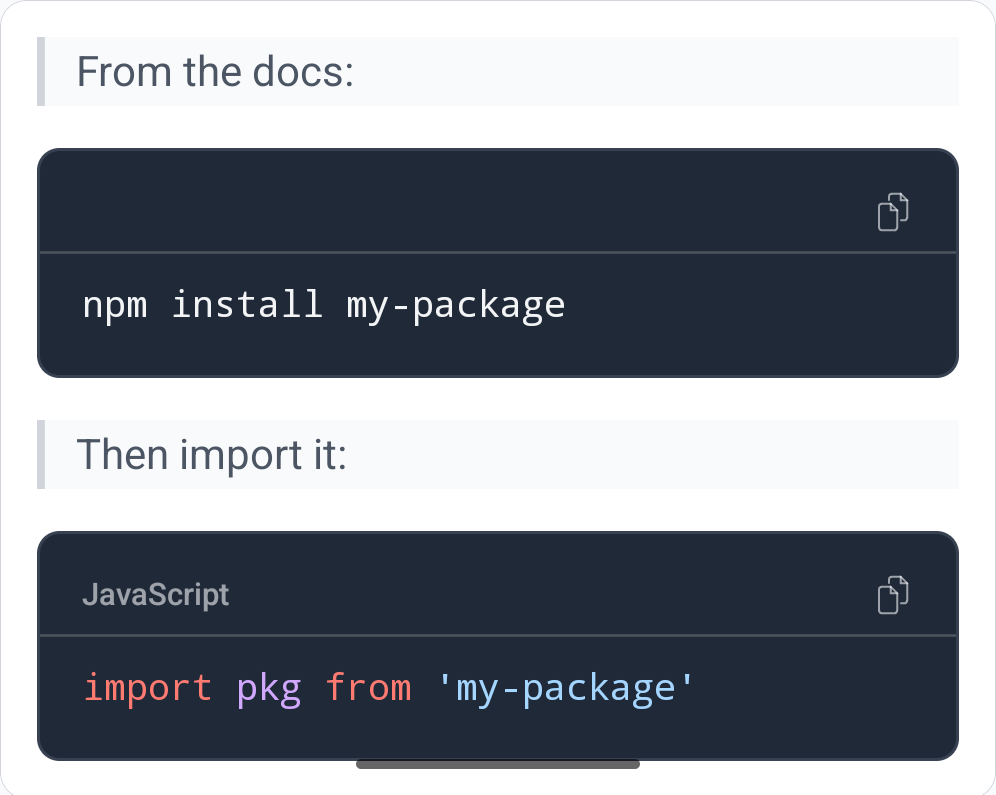
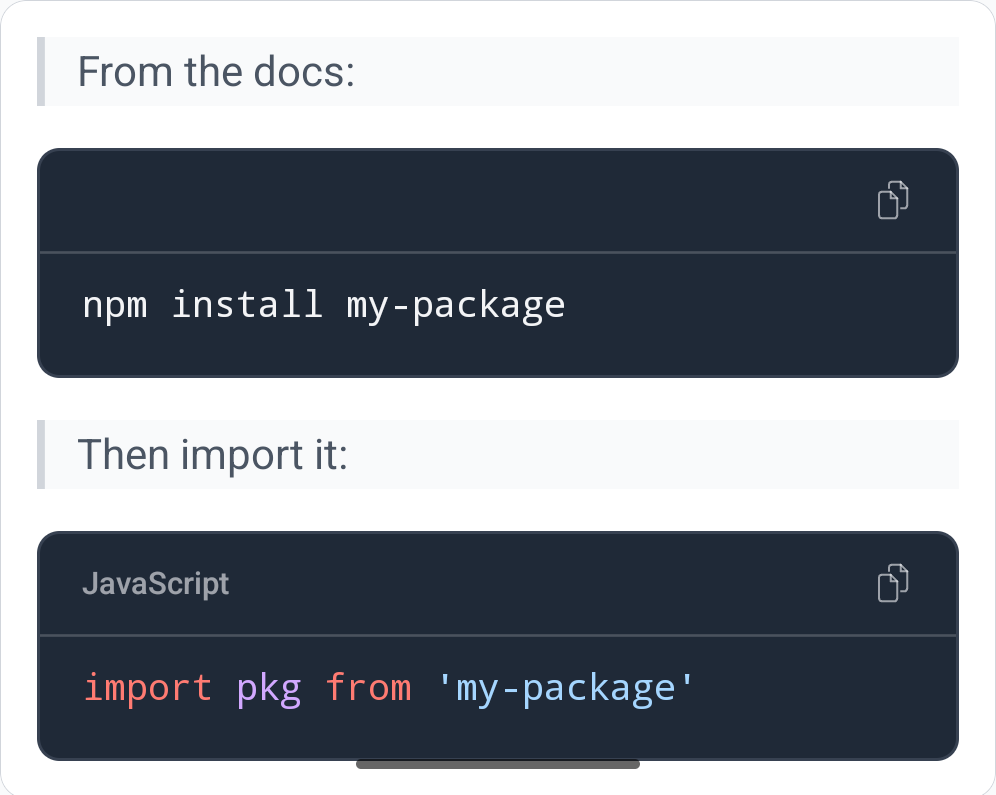
fix: center code-block header controls above the divider (#960)
* fix: center code-block header controls above the divider

* test(ios): capture code header alignment baseline

* test: drop the code header alignment tests

The Robolectric test asserts two values derived from the same formula, and
the screenshot baseline duplicates what the existing code block goldens
already capture.

* test: refresh code block goldens for the centered header

The language label and copy icon moved, so the four existing code block
screenshots on iOS and Android are regenerated and pass at the strict
threshold.

---------

diff --git a/packages/react-native-enriched-markdown/android/src/main/java/com/swmansion/enriched/markdown/segments/CodeBlockContainerView.kt b/packages/react-native-enriched-markdown/android/src/main/java/com/swmansion/enriched/markdown/segments/CodeBlockContainerView.kt
@@ -36,6 +36,7 @@ import com.swmansion.enriched.markdown.utils.text.span.SPAN_FLAGS_EXCLUSIVE_EXCL
 import com.swmansion.enriched.markdown.views.ContextMenuPopup
 import com.swmansion.enriched.markdown.views.CopyGlyph
 import kotlin.math.ceil
+import kotlin.math.roundToInt
 
 /**
  * Block segment view for fenced code blocks (see splitASTIntoSegments):
@@ -229,7 +230,9 @@ class CodeBlockContainerView(
     bottom: Int,
   ) {
     val width = right - left
-    val labelTop = headerH - languageView.measuredHeight
+    // The divider sits halfway into the code pane's top inset.
+    val headerCenterY = (headerH + inset / 2f) / 2f
+    val labelTop = (headerCenterY - languageView.measuredHeight / 2f).roundToInt()
     languageView.layout(
       inset,
       labelTop,
@@ -240,7 +243,7 @@ class CodeBlockContainerView(
     val iconWidth = copyButton.drawable?.intrinsicWidth ?: copyButton.measuredWidth
     val iconSlack = ((copyButton.measuredWidth - iconWidth) / 2).coerceAtLeast(0)
     val buttonLeft = (width - inset - copyButton.measuredWidth + iconSlack).coerceAtLeast(0)
-    val buttonTop = (headerH - languageView.measuredHeight / 2 - copyButton.measuredHeight / 2).coerceAtLeast(0)
+    val buttonTop = (headerCenterY - copyButton.measuredHeight / 2f).roundToInt().coerceAtLeast(0)
     copyButton.layout(
       buttonLeft,
       buttonTop,

diff --git a/packages/react-native-enriched-markdown/ios/segments/ENRMCodeBlockContainerView.m b/packages/react-native-enriched-markdown/ios/segments/ENRMCodeBlockContainerView.m
@@ -349,11 +349,16 @@ static BOOL ENRMColorIsDark(RCTUIColor *color)
 #endif
 }
 
-// Header is the top content inset plus one label line; the code text's own
-// top inset then forms the single gap below the label.
+// The code pane starts after the content inset and one header-label line.
 - (CGFloat)headerHeight
 {
   return [self contentInset] + _headerLabelLineHeight;
+}
+
+- (CGFloat)headerCenterY
+{
+  // The divider sits halfway into the code pane's top inset.
+  return ([self headerHeight] + [self contentInset] / 2) / 2;
 }
 
 - (void)layoutHeaderButton
@@ -365,8 +370,7 @@ static BOOL ENRMColorIsDark(RCTUIColor *color)
   }
   CGFloat iconSlack = (headerH - iconWidth) / 2;
   CGFloat buttonLeft = MAX(self.bounds.size.width - [self contentInset] - headerH + iconSlack, 0);
-  CGFloat labelCenterY = headerH - _headerLabelLineHeight / 2;
-  CGFloat buttonTop = MAX(labelCenterY - headerH / 2, 0);
+  CGFloat buttonTop = MAX([self headerCenterY] - headerH / 2, 0);
   _copyButton.frame = CGRectMake(buttonLeft, buttonTop, headerH, headerH);
 }
 
@@ -529,7 +533,7 @@ static BOOL ENRMColorIsDark(RCTUIColor *color)
   }
 
   if (_languageLabel.length > 0) {
-    [_languageLabel drawAtPoint:CGPointMake(inset, headerH - _languageLabelSize.height)];
+    [_languageLabel drawAtPoint:CGPointMake(inset, [self headerCenterY] - _languageLabelSize.height / 2)];
   }
 }
 
